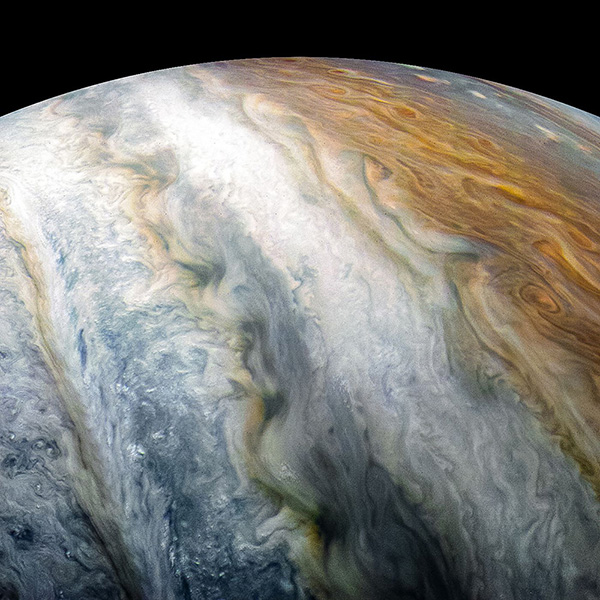
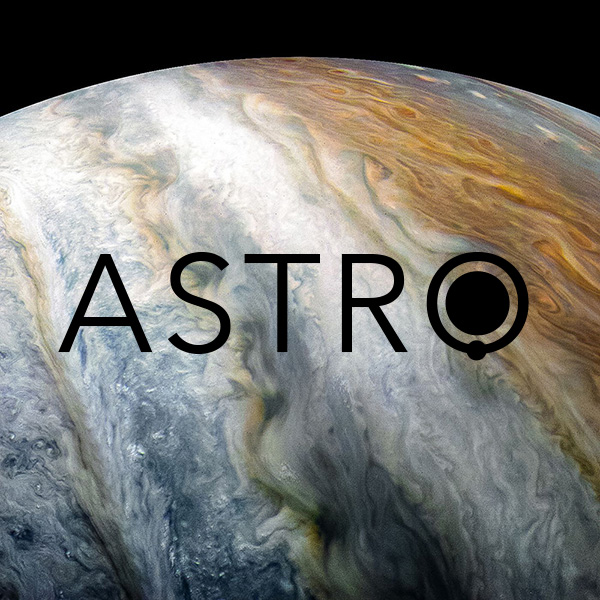
Adds new lab images

Changed region(s): [[0.57, 0.42, 0.9, 0.6], [0.09, 0.42, 0.54, 0.6]]

diff --git a/src/Lab.js b/src/Lab.js
@@ -8,8 +8,8 @@ import astroImage from './images/lab_astro.jpg'
 const labData = [
   {
     img: astroImage,
-    title: 'Astro Realty',
-    description: 'Do you want to own part of the cosmos? Well, now you can with this faux ecommerce site. (in progress)',
+    title: 'Astro Ecommerce',
+    description: 'Want to own a piece of the cosmos? Now you can with this faux ecommerce site. (in progress)',
     madeWith: 'Next.js, MongoDB',
     links: [
       {
@@ -23,7 +23,7 @@ const labData = [
     ]
   },{
     img: parksImage,
-    title: 'The USA National Parks Map Directory',
+    title: 'US National Parks Map Directory',
     description: 'Explore what to do and where to go when visiting the national parks in America.',
     madeWith: 'Next.js, MongoDB, nps.gov API, and Google Maps API',
     links: [
